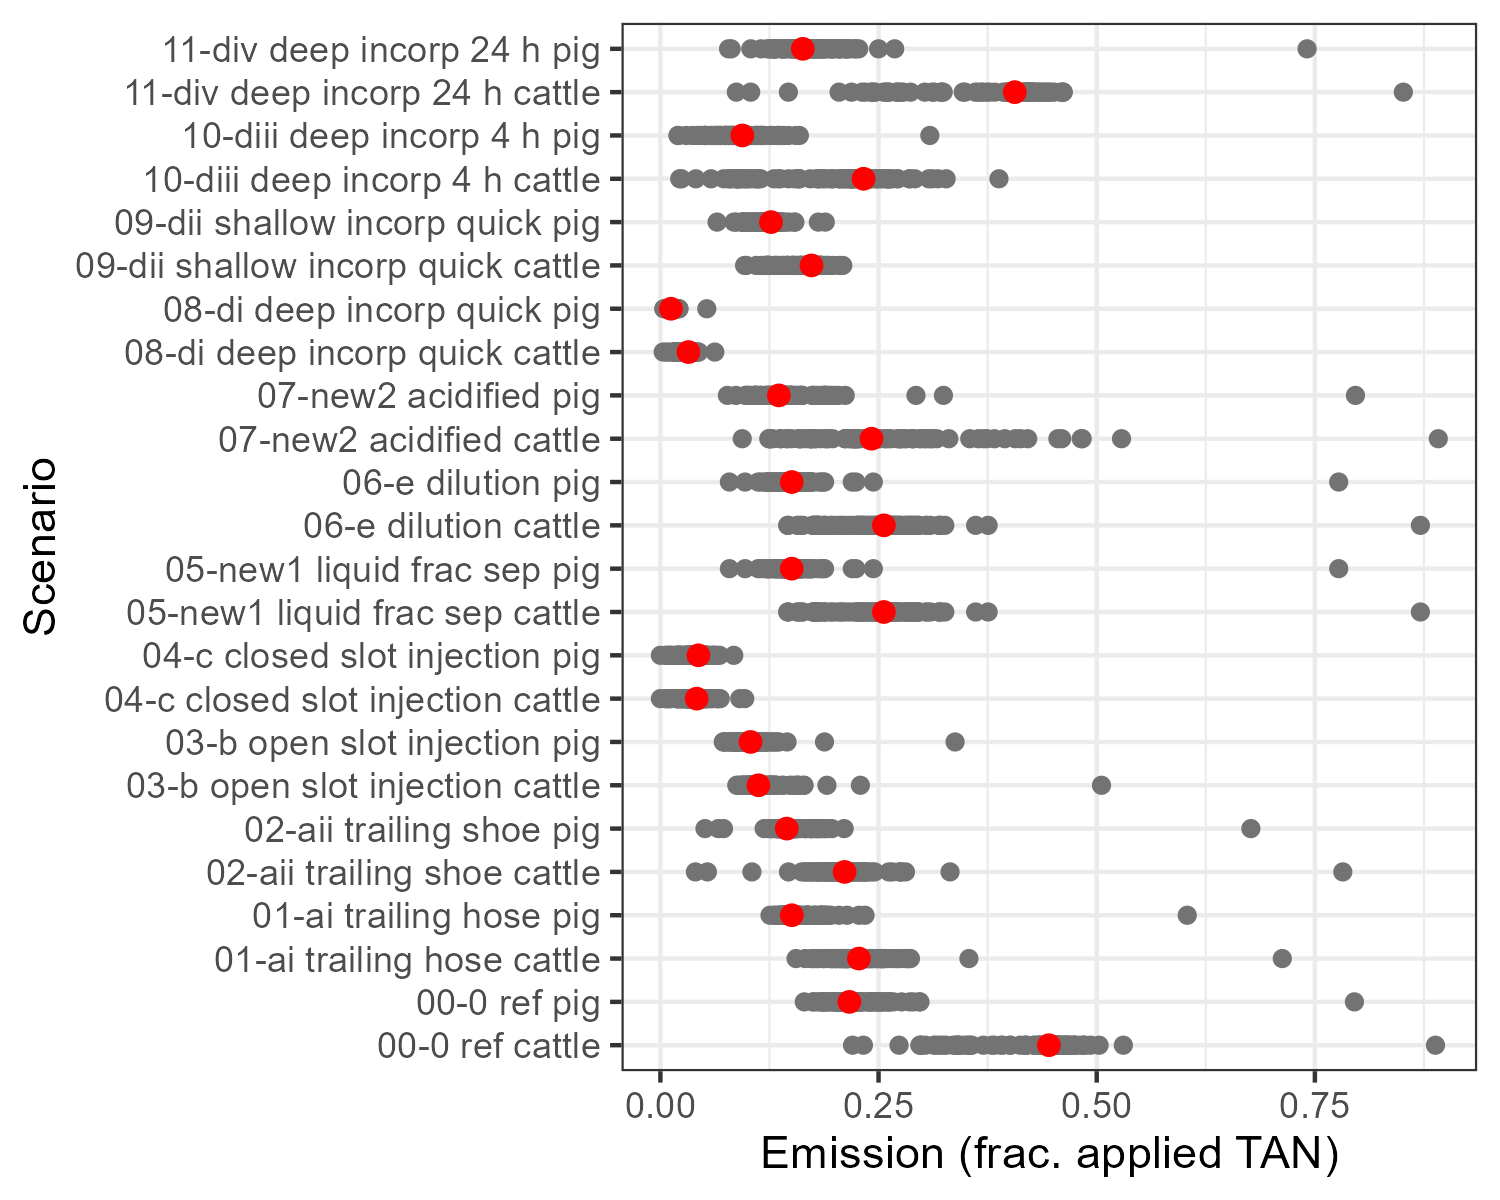
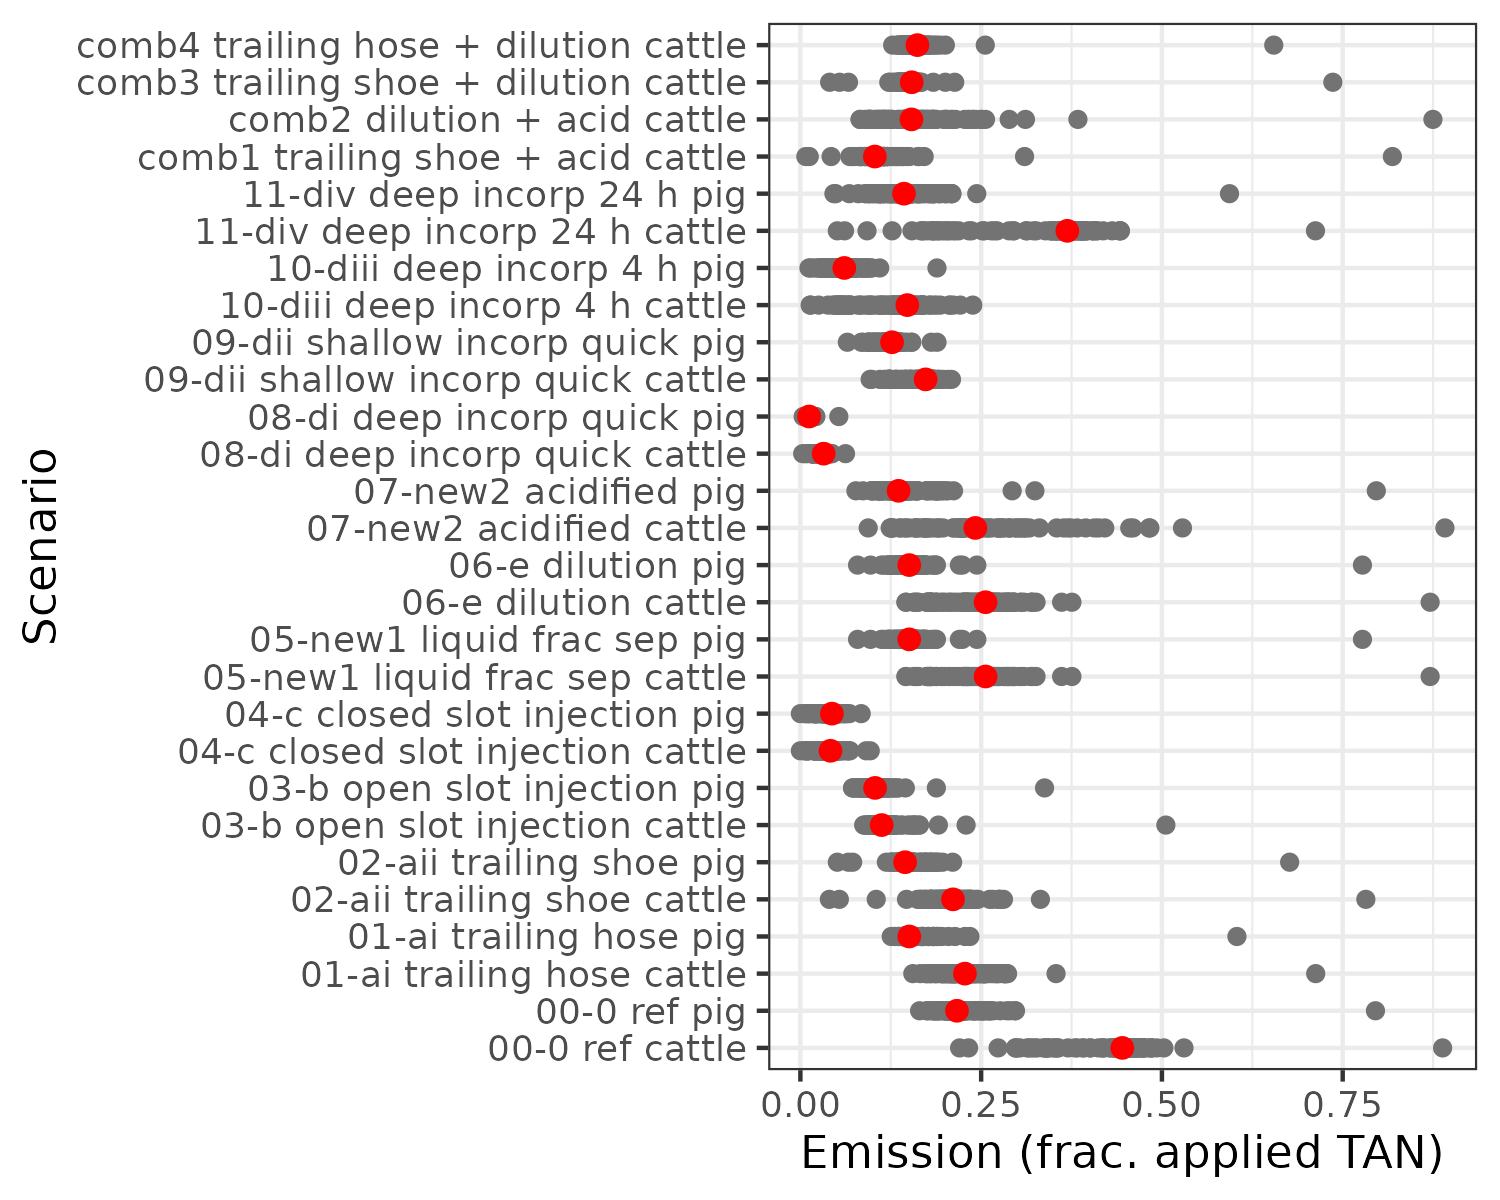
add some combinations to ALFAM2 red preds

diff --git a/Chapter 7/reductions-ALFAM2/logs/ALFAM2_calcs_log.md b/Chapter 7/reductions-ALFAM2/logs/ALFAM2_calcs_log.md
@@ -1,7 +1,7 @@
 ---
 title: 'ALFAM2 predictions'
 output: pdf_document
-date: "28 April, 2025 17:34"
+date: "31 October, 2025 18:51"
 ---
 
 Use conf.int = 'all' to get results from all 100 parameter sets to compare to reference scenario with uncertainty
@@ -12,14 +12,18 @@ alfam2pars03
 ```
 
 ```
-##            int.f0    app.mthd.os.f0    app.mthd.cs.f0 man.source.pig.f0         man.dm.f0            int.r1    app.mthd.bc.r1 
-##        0.45305451       -2.89718049       -7.09642528       -0.95213804        0.49956176       -1.45119862        0.73714111 
-##    app.mthd.ts.r1         man.dm.r1         man.ph.r1       air.temp.r1      wind.sqrt.r1            int.r2      rain.rate.r2 
-##       -0.07393662       -0.03300931        0.42121280        0.03321186        0.46104870       -1.16953266        0.60163865 
-##            int.r3    app.mthd.cs.r3    incorp.deep.r3         man.ph.r3 incorp.shallow.f4    incorp.deep.f4            int.r5 
-##       -2.68829766       -0.38439637       -5.35112099        0.11776977       -1.41820869       -2.94966810       -1.80000000 
-##      rain.rate.r5 
-##        0.48425409
+##            int.f0    app.mthd.os.f0    app.mthd.cs.f0 man.source.pig.f0 
+##        0.45305451       -2.89718049       -7.09642528       -0.95213804 
+##         man.dm.f0            int.r1    app.mthd.bc.r1    app.mthd.ts.r1 
+##        0.49956176       -1.45119862        0.73714111       -0.07393662 
+##         man.dm.r1         man.ph.r1       air.temp.r1      wind.sqrt.r1 
+##       -0.03300931        0.42121280        0.03321186        0.46104870 
+##            int.r2      rain.rate.r2            int.r3    app.mthd.cs.r3 
+##       -1.16953266        0.60163865       -2.68829766       -0.38439637 
+##    incorp.deep.r3         man.ph.r3 incorp.shallow.f4    incorp.deep.f4 
+##       -5.35112099        0.11776977       -1.41820869       -2.94966810 
+##            int.r5      rain.rate.r5 
+##       -1.80000000        0.48425409
 ```
 
 
